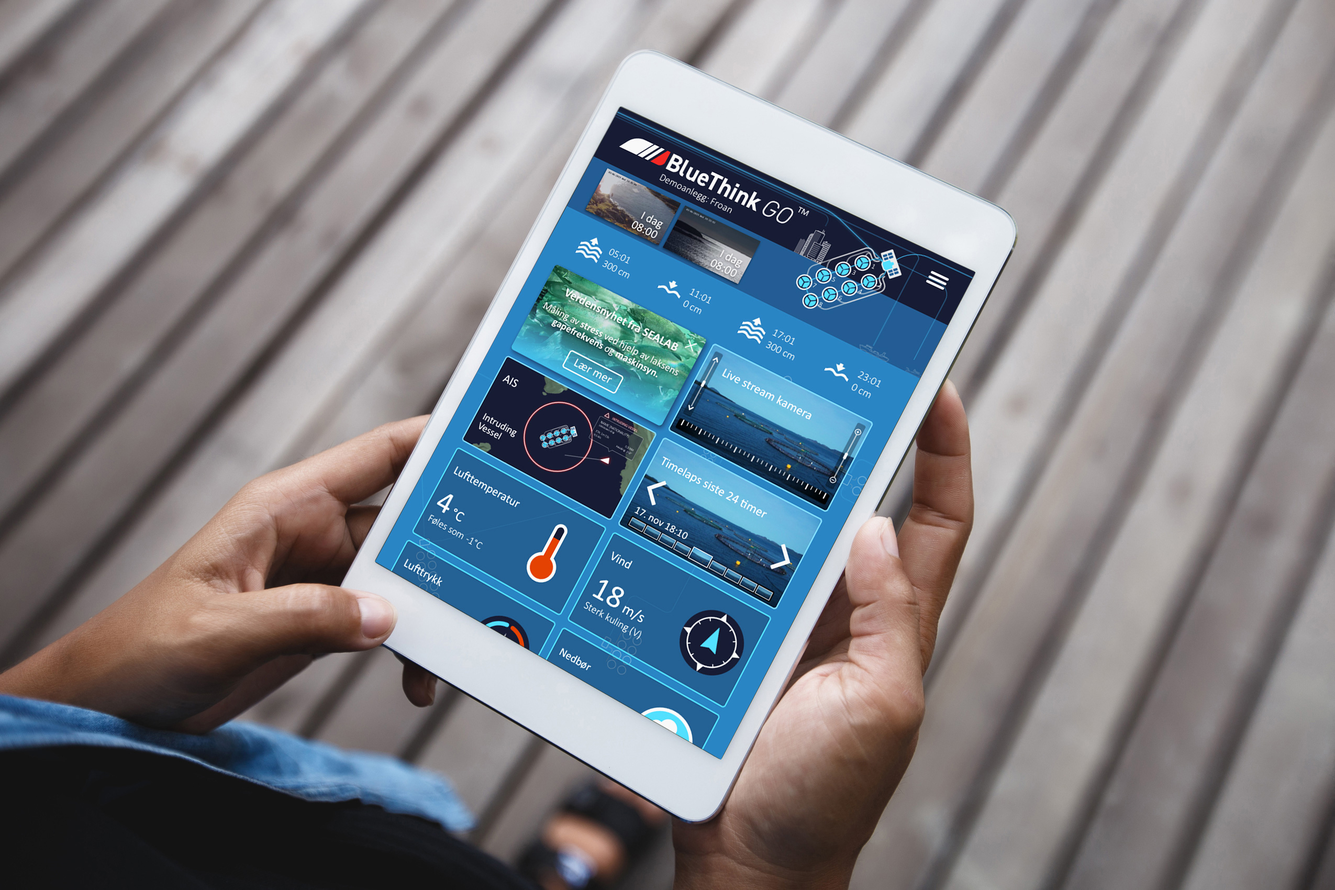
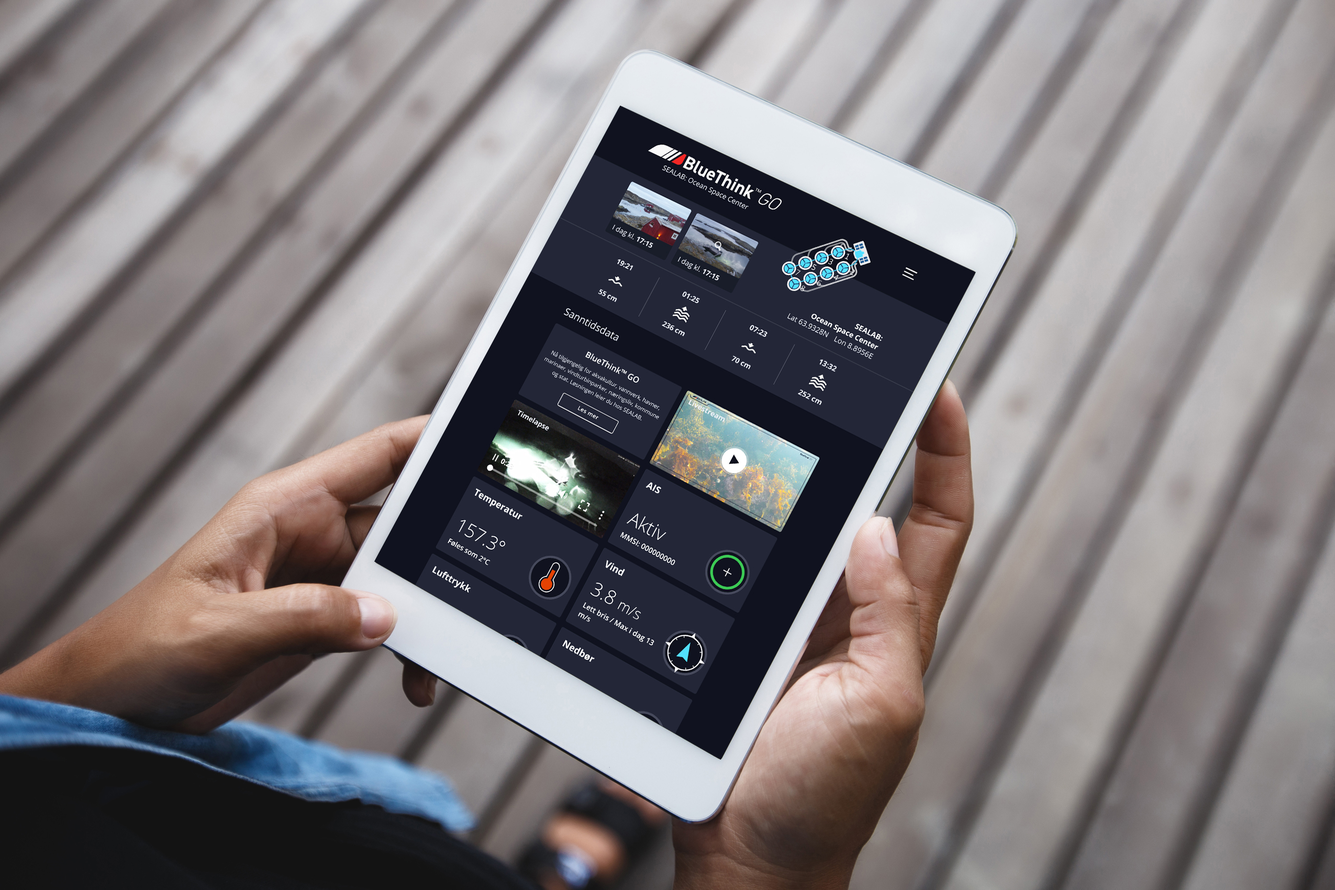
Update news image

Changed region(s): [[0.2788, 0.1247, 0.7125, 0.8729]]

diff --git a/src/pages/index.md b/src/pages/index.md
@@ -45,7 +45,7 @@ newsSection:
   subheading: BlueThink™ GO
   heading: Velkommen til neste generasjons kontrollrom!
   description: SEALAB er stolte av å kunne tilby oppdrettsnæringen BlueThink GO. En tjeneste som lar deg være påkoblet anlegget ditt når som helst, fra hvor som helst. Den gir deg sanntids værdata, AIS-data, sensordata fra merdene og verdier som sier noe røkternes sikkerhet ute på anlegget. For ikke å nevne den etterlengtede livestreamen, selvfølgelig med skyhøy bildekvalitet. 
-  featuredimage: /img/allInOne-gradient-bg.png.jpg
+  featuredimage: /img/tablet-holding-portrait.jpg
 
 largeImageSection:
   featuredimage: /img/sealab-controller-livestream-AIS.jpg
